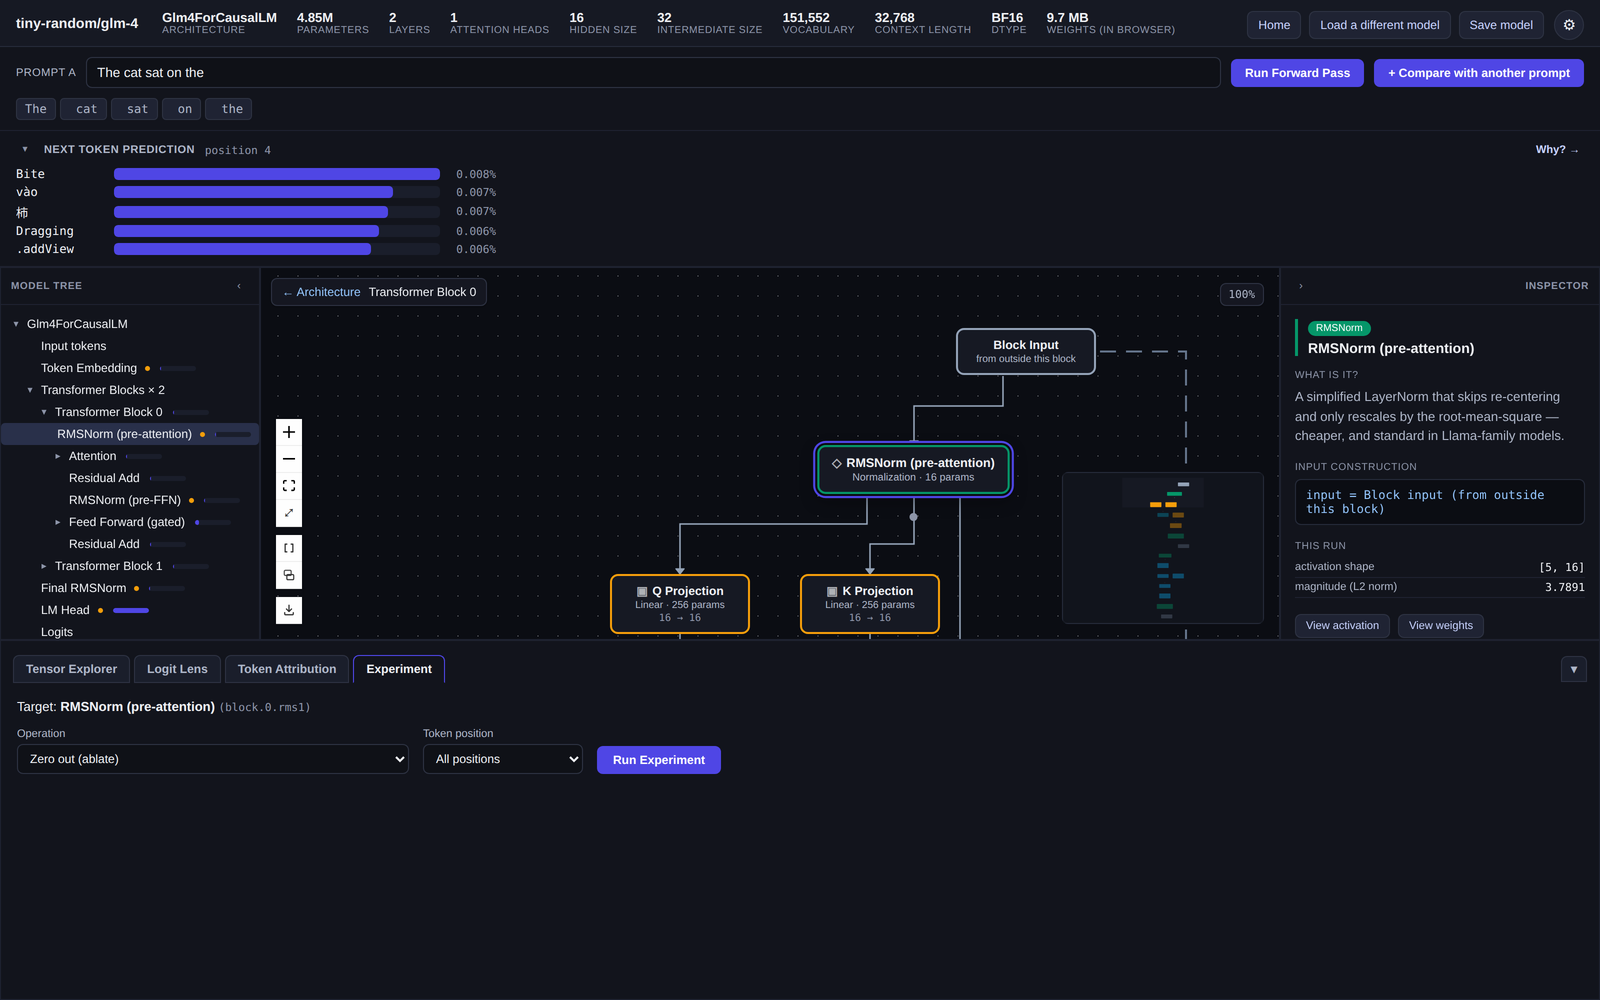
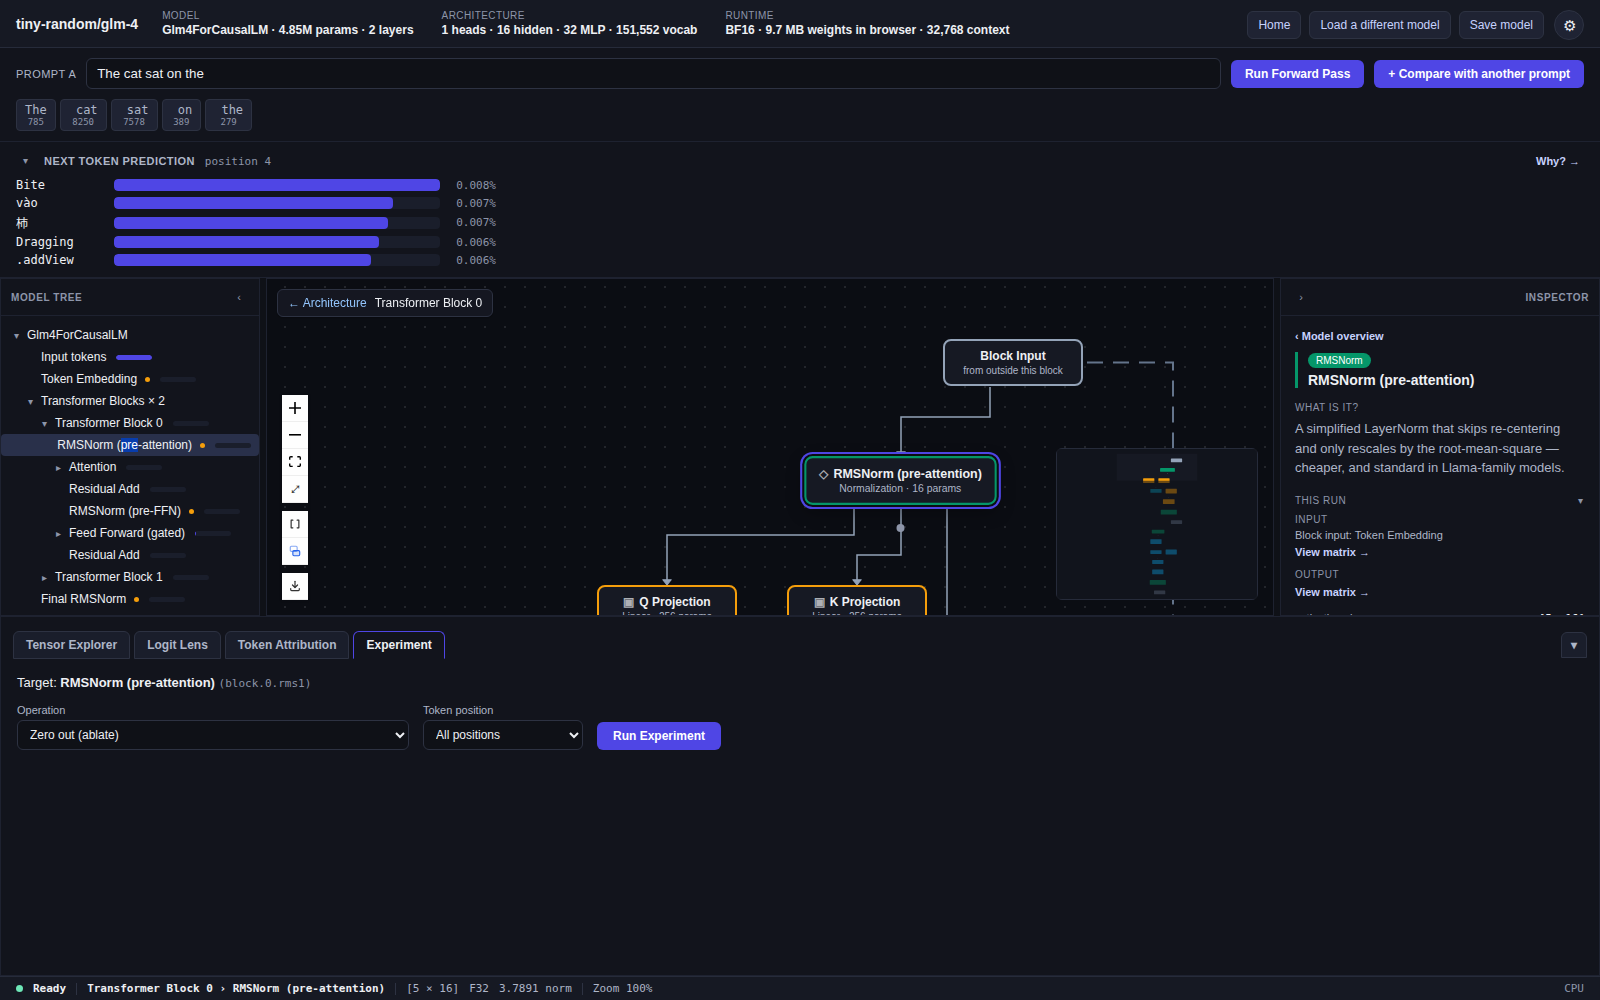
Update docs

diff --git a/apps/web/src/i18n.ts b/apps/web/src/i18n.ts
@@ -67,6 +67,7 @@ const en = {
   "loader.localConfigDesc": "Architecture & shape settings",
   "loader.localWeightsDesc": "The model's tensor data",
   "loader.localTokenizerDesc": "Needed only to run inference",
+  "loader.viewOnGithub": "View source on GitHub",
 
   "inference.promptA": "Prompt A",
   "inference.promptB": "Prompt B",
@@ -294,6 +295,7 @@ export const translations: Record<Language, Record<TranslationKey, string>> = {
     "loader.localConfigDesc": "架构与形状配置",
     "loader.localWeightsDesc": "模型的张量数据",
     "loader.localTokenizerDesc": "仅在运行推理时需要",
+    "loader.viewOnGithub": "在 GitHub 上查看源码",
 
     "inference.promptA": "提示词 A",
     "inference.promptB": "提示词 B",
@@ -516,6 +518,7 @@ export const translations: Record<Language, Record<TranslationKey, string>> = {
     "loader.localConfigDesc": "Configuración de arquitectura y formas",
     "loader.localWeightsDesc": "Los datos de tensores del modelo",
     "loader.localTokenizerDesc": "Solo necesario para ejecutar inferencia",
+    "loader.viewOnGithub": "Ver el código fuente en GitHub",
 
     "inference.promptA": "Prompt A",
     "inference.promptB": "Prompt B",
@@ -738,6 +741,7 @@ export const translations: Record<Language, Record<TranslationKey, string>> = {
     "loader.localConfigDesc": "Paramètres d'architecture et de formes",
     "loader.localWeightsDesc": "Les données tensorielles du modèle",
     "loader.localTokenizerDesc": "Nécessaire uniquement pour l'inférence",
+    "loader.viewOnGithub": "Voir le code source sur GitHub",
 
     "inference.promptA": "Prompt A",
     "inference.promptB": "Prompt B",
@@ -960,6 +964,7 @@ export const translations: Record<Language, Record<TranslationKey, string>> = {
     "loader.localConfigDesc": "Architektur- und Formeinstellungen",
     "loader.localWeightsDesc": "Die Tensordaten des Modells",
     "loader.localTokenizerDesc": "Nur für die Inferenz nötig",
+    "loader.viewOnGithub": "Quellcode auf GitHub ansehen",
 
     "inference.promptA": "Prompt A",
     "inference.promptB": "Prompt B",
@@ -1182,6 +1187,7 @@ export const translations: Record<Language, Record<TranslationKey, string>> = {
     "loader.localConfigDesc": "アーキテクチャと形状の設定",
     "loader.localWeightsDesc": "モデルのテンソルデータ",
     "loader.localTokenizerDesc": "推論の実行にのみ必要",
+    "loader.viewOnGithub": "GitHub でソースを見る",
 
     "inference.promptA": "プロンプト A",
     "inference.promptB": "プロンプト B",
@@ -1404,6 +1410,7 @@ export const translations: Record<Language, Record<TranslationKey, string>> = {
     "loader.localConfigDesc": "아키텍처 및 형태 설정",
     "loader.localWeightsDesc": "모델의 텐서 데이터",
     "loader.localTokenizerDesc": "추론 실행 시에만 필요",
+    "loader.viewOnGithub": "GitHub에서 소스 보기",
 
     "inference.promptA": "프롬프트 A",
     "inference.promptB": "프롬프트 B",
@@ -1626,6 +1633,7 @@ export const translations: Record<Language, Record<TranslationKey, string>> = {
     "loader.localConfigDesc": "Configurações de arquitetura e formas",
     "loader.localWeightsDesc": "Os dados de tensores do modelo",
     "loader.localTokenizerDesc": "Necessário apenas para executar inferência",
+    "loader.viewOnGithub": "Ver código-fonte no GitHub",
 
     "inference.promptA": "Prompt A",
     "inference.promptB": "Prompt B",
@@ -1848,6 +1856,7 @@ export const translations: Record<Language, Record<TranslationKey, string>> = {
     "loader.localConfigDesc": "Настройки архитектуры и форм",
     "loader.localWeightsDesc": "Тензорные данные модели",
     "loader.localTokenizerDesc": "Нужен только для запуска инференса",
+    "loader.viewOnGithub": "Посмотреть исходный код на GitHub",
 
     "inference.promptA": "Промпт A",
     "inference.promptB": "Промпт B",

diff --git a/apps/web/src/components/ModelLoader.tsx b/apps/web/src/components/ModelLoader.tsx
@@ -194,7 +194,22 @@ export function ModelLoader({ status, error, progress, onLoad, onLoadLocal, excl
     <div className={"model-loader" + (embedded ? " embedded" : "")}>
       {!embedded && (
         <>
-          <div className="model-loader-title">{t("loader.title")}</div>
+          <div className="model-loader-title-row">
+            <div className="model-loader-title">{t("loader.title")}</div>
+            <a
+              className="model-loader-github-link"
+              href="https://github.com/Nice2008X/Tensorium"
+              target="_blank"
+              rel="noopener noreferrer"
+              title={t("loader.viewOnGithub")}
+              aria-label={t("loader.viewOnGithub")}
+            >
+              <svg viewBox="0 0 16 16" width="15" height="15" fill="currentColor" aria-hidden="true">
+                <path d="M8 0C3.58 0 0 3.58 0 8c0 3.54 2.29 6.53 5.47 7.59.4.07.55-.17.55-.38 0-.19-.01-.82-.01-1.49-2.01.37-2.53-.49-2.69-.94-.09-.23-.48-.94-.82-1.13-.28-.15-.68-.52-.01-.53.63-.01 1.08.58 1.23.82.72 1.21 1.87.87 2.33.66.07-.52.28-.87.51-1.07-1.78-.2-3.64-.89-3.64-3.95 0-.87.31-1.59.82-2.15-.08-.2-.36-1.02.08-2.12 0 0 .67-.21 2.2.82.64-.18 1.32-.27 2-.27.68 0 1.36.09 2 .27 1.53-1.04 2.2-.82 2.2-.82.44 1.1.16 1.92.08 2.12.51.56.82 1.27.82 2.15 0 3.07-1.87 3.75-3.65 3.95.29.25.54.73.54 1.48 0 1.07-.01 1.93-.01 2.2 0 .21.15.46.55.38A8.01 8.01 0 0 0 16 8c0-4.42-3.58-8-8-8Z" />
+              </svg>
+              GitHub
+            </a>
+          </div>
           <div className="model-loader-sub">{t("loader.subtitle")}</div>
           <div className="model-loader-limitation">{t("loader.limitationNote")}</div>
         </>

diff --git a/apps/web/src/styles.css b/apps/web/src/styles.css
@@ -232,7 +232,22 @@ input, select { font-family: inherit; }
   border-radius: 12px;
   box-shadow: var(--shadow-elevated);
 }
+.model-loader-title-row { display: flex; align-items: baseline; justify-content: space-between; gap: 12px; }
 .model-loader-title { font-size: 20px; font-weight: 600; margin-bottom: 6px; }
+.model-loader-github-link {
+  display: inline-flex;
+  align-items: center;
+  gap: 5px;
+  color: var(--text-secondary);
+  font-size: 13px;
+  font-weight: 500;
+  text-decoration: none;
+  border: 1px solid var(--border-default);
+  border-radius: 6px;
+  padding: 4px 9px;
+  flex-shrink: 0;
+}
+.model-loader-github-link:hover { color: var(--text-primary); border-color: var(--border-strong); background: var(--bg-hover); }
 .model-loader-sub { color: var(--text-secondary); margin-bottom: 12px; line-height: 1.5; }
 .model-loader-limitation { color: var(--text-tertiary); font-size: 12px; line-height: 1.5; margin-bottom: 20px; }
 .model-loader-form { display: flex; gap: 8px; }

diff --git a/README.md b/README.md
@@ -74,8 +74,12 @@ exploring architecture and mechanics, not model quality.
   positional embedding).
 - **Tensor Explorer** — browse every weight tensor and every activation
   captured from the last forward pass, rendered as a heatmap, a raw
-  matrix, or a value histogram. Supports windowing into large tensors and
-  side-by-side A/B/diff comparison across two prompts.
+  matrix, or a value histogram. An **Input/Output tab** shows exactly what
+  flowed into and out of the selected node for that run — including which
+  of several upstream sources for a multi-input node (e.g. a residual add)
+  — deep-linked directly from the Inspector's "This run" section. Supports
+  windowing into large tensors and side-by-side A/B/diff comparison across
+  two prompts.
 - **Logit Lens** — project every layer's hidden state through the final
   norm and LM head to watch the model's next-token prediction sharpen (or
   change its mind) layer by layer.
@@ -89,10 +93,17 @@ exploring architecture and mechanics, not model quality.
 - **Themes and language** — dark, light, pastel, and sepia themes, plus a
   UI translated into nine languages, both configurable from the settings
   panel (top-right gear icon).
-- **Resizable, collapsible layout** — drag the bottom panel's top edge to
-  resize it (within sane min/max bounds); it and the tree/inspector/
-  prediction panels each collapse independently, and every size/collapse
-  preference persists across reloads.
+- **Resizable, collapsible layout** — drag the bottom panel's top edge, or
+  the model tree's and Inspector's own side edges, to resize them (within
+  sane min/max bounds); every panel collapses independently, and every
+  size/collapse preference persists across reloads.
+- **Status footer** — an always-visible strip showing the current
+  run/idle/error state, the selected node's breadcrumb, its real output
+  shape and dtype (or the static declared shape before any run), zoom
+  level, and a reminder that every computation here runs on the CPU, not a
+  GPU. While a forward pass is in flight, it shows real per-layer progress
+  (not a simulated animation) — useful on a large structure-only model,
+  where each layer's weight load is a genuine, sometimes-slow read.
 
 ## Screenshots
 
@@ -116,7 +127,7 @@ Qwen3.5's Gated DeltaNet block — a short causal convolution feeding a per-toke
 <td width="50%">
 
 **The full architecture, at a glance**
-The top-level graph — real 100% zoom by default, with a live zoom-percentage readout — before diving into any one block's internals.
+The top-level graph — real 100% zoom by default, with the current zoom level always readable in the status footer — before diving into any one block's internals.
 ![Qwen3-MoE's top-level architecture graph: token embedding into two transformer blocks into the LM head](docs/screenshot-architecture-overview.png)
 
 </td>
@@ -129,6 +140,9 @@ Every layer's hidden state projected through the final norm and LM head, watchin
 </td>
 </tr>
 </table>
+
+**See exactly what fed a node, one click away** — the Inspector's "This run" section deep-links straight into Tensor Explorer's Input/Output tab, landing on the right upstream source (here, the previous block's own output, correctly resolved rather than showing the block container's own — different — result) with real captured data, not a placeholder.
+![Tensor Explorer's Input/Output tab showing LayerNorm 1's real input tensor, deep-linked from the Inspector, with the status footer visible at the bottom](docs/screenshot-input-output.png)
 
 **Causal interventions** — zero out a component or patch in an activation from a second prompt, and see the effect on the output distribution.
 ![The Experiment panel with RMSNorm (pre-attention) selected, offering a Zero out (ablate) / Patch-in operation and a token-position scope](docs/screenshot-experiment.png)
